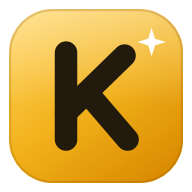
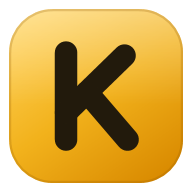
Icono sin la estrella; web: pestaña Comandos primero

Changed region(s): [[0.7188, 0.1562, 0.875, 0.2812]]

diff --git a/src/KDesktop.Core/Web/app.js b/src/KDesktop.Core/Web/app.js
@@ -79,7 +79,7 @@ const state = {
   catalog: store.get('catalog', null),
   catalogJson: '',
   session: null,
-  tab: store.get('tab', 'menus'),
+  tab: store.get('tab', 'all'),
   menuId: store.get('menu', null),
   path: [],          // ids of the open submenus
   lastLoad: 0,
@@ -177,7 +177,7 @@ function movePill(pill, target) {
 
 // ── tabs ───────────────────────────────────────────────────────────
 
-const TABS = ['menus', 'all', 'pad', 'audio', 'settings'];
+const TABS = ['all', 'menus', 'pad', 'audio', 'settings'];
 
 function setTitles() {
   const title = t('pwa.tab.' + state.tab);
@@ -186,7 +186,7 @@ function setTitles() {
 }
 
 function setTab(tab) {
-  if (!TABS.includes(tab)) tab = 'menus';
+  if (!TABS.includes(tab)) tab = 'all';
   const back = TABS.indexOf(tab) < TABS.indexOf(state.tab);
   state.tab = tab;
   store.set('tab', tab);

diff --git a/src/KDesktop.Core/Web/index.html b/src/KDesktop.Core/Web/index.html
@@ -228,8 +228,8 @@
 
     <nav class="tabbar" id="tabbar">
       <span class="tab-pill" id="tabPill"></span>
-      <button data-tab="menus"><span data-icon="menus"></span><b data-i18n="pwa.tab.menus"></b></button>
       <button data-tab="all"><span data-icon="all"></span><b data-i18n="pwa.tab.all"></b></button>
+      <button data-tab="menus"><span data-icon="menus"></span><b data-i18n="pwa.tab.menus"></b></button>
       <button data-tab="pad"><span data-icon="touchpad"></span><b data-i18n="pwa.tab.pad"></b></button>
       <button data-tab="audio"><span data-icon="speaker"></span><b data-i18n="pwa.tab.audio"></b></button>
       <button data-tab="settings"><span data-icon="settings"></span><b data-i18n="pwa.tab.settings"></b></button>

diff --git a/src/KDesktop.Core/Web/sw.js b/src/KDesktop.Core/Web/sw.js
@@ -1,6 +1,6 @@
 // K-Desktop service worker: the app opens even when the PC is off (with the last commands it saw),
 // new versions arrive at once (network first), and command icons are kept (their names are content hashes).
-const SHELL = 'kd-shell-v3';
+const SHELL = 'kd-shell-v4';
 const ICONS = 'kd-icons-v1';
 const FILES = ['./', 'app.css', 'app.js', 'fuzzy.js', 'pad.js', 'manifest.webmanifest',
   'icons/favicon.png', 'icons/icon-192.png', 'icons/apple-touch-icon.png'];

diff --git a/docs/ROADMAP.md b/docs/ROADMAP.md
@@ -125,7 +125,7 @@
       en los recursos de la aplicación porque WPF-UI escribe ahí algunas claves), texto oscuro en los botones dorados
       y los iconos propios casi blancos y sin color (también favicons y carpetas con icono propio) se invierten en el
       tema claro (`IconProvider.Theme.cs`; la web pide la variante de su propio tema: `icon` / `iconLight`).
-- [x] **Icono nuevo** (squircle dorado con una K y una chispa), generado en vectores por `tools\icon\make-icon.ps1`
+- [x] **Icono nuevo** (squircle dorado con una K), generado en vectores por `tools\icon\make-icon.ps1`
       (ico 16…256, PNG de la web y capas para Android). Opciones › Apariencia › «Icono de la bandeja» (cualquier icono,
       y volver al de K-Desktop; `TrayIcons`). La versión corta (5.0) sale del ensamblado (`AppPaths.ShortVersion`);
       Acerca de muestra la completa (5.0.0).
